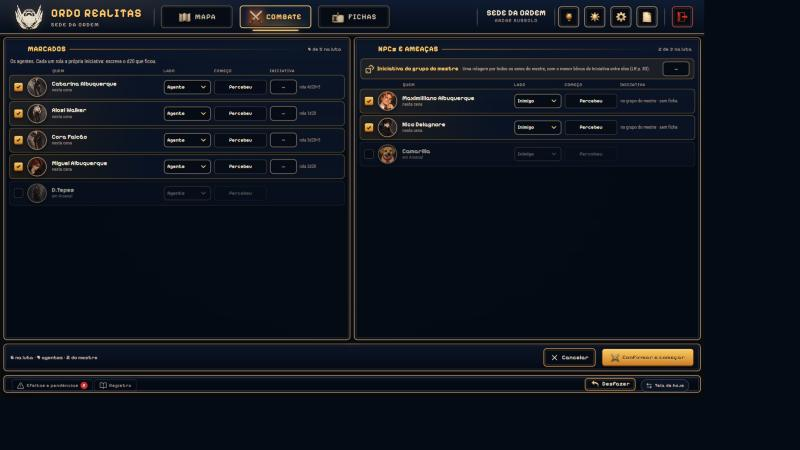
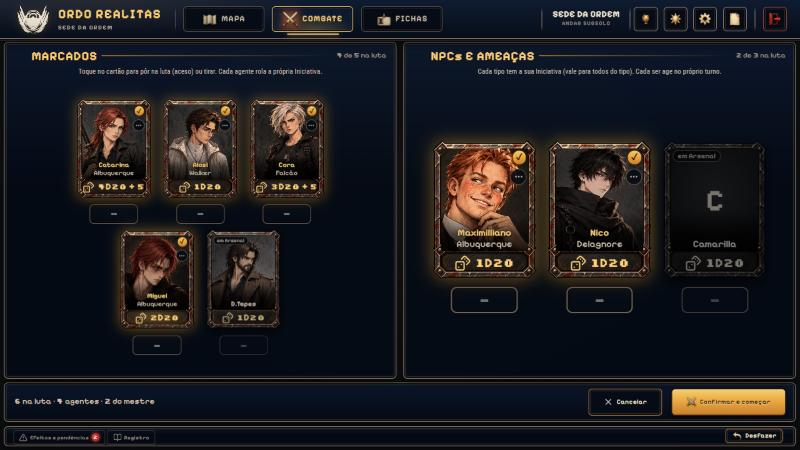
docs: tela antiga arquivada, turno individual, preparo em cartões

diff --git a/docs/EM-ABERTO.md b/docs/EM-ABERTO.md
@@ -2,6 +2,15 @@
 
 O que está pela metade, o que falta e o que o Códex ainda vai entregar. Leia junto com o [`GUIA-DO-CLAUDE.md`](GUIA-DO-CLAUDE.md), que diz como trabalhar aqui. **Atualize este arquivo ao fim de cada bloco de trabalho.**
 
+## Feito em 21/10 (noite): a tela nova é a única; turno individual; preparo em cartões
+
+- **Só a tela nova (cards) no site.** A chave "Tela de hoje / Tela nova" saiu e a escolha antiga do aparelho (`crona.combate.tela`) é apagada ao abrir. **A tela antiga está ARQUIVADA, não apagada:** o código continua em `client/src/ui/combate.ts` (ramos `modoCards ? ... : ...`), `combateRapido.css`, `combate.css` e `hud.css`, atrás da constante `TELA_ANTIGA_DISPONIVEL = false` (topo do `combate.ts`, com o comentário de como religar: trocar por `true`). Detalhes em [`TELA-COMBATE.md`](TELA-COMBATE.md), seção "Tela antiga arquivada".
+- **Turno individual (regra da mesa do Felipe):** cada ser do mestre tem o próprio turno; a Iniciativa pode ser igual, e entre iguais vale a ordem do preparo (e o `desempate`). Não existe mais "Iniciativa do grupo do mestre" nem "turno do mestre" (`shared/src/combate/turnos.ts`; `iniciativaMestre` ficou só por compatibilidade e vale para cada ser). Combate salvo no formato antigo é migrado ao abrir (`migrar`, chamada no servidor e a cada ação). Testes novos em `server/test/combate.test.ts` (seis seres de Iniciativa igual, um morre no meio, atrasar um, formato antigo).
+- **Preparo:** cartões grandes com foto (Marcados à esquerda; NPCs e ameaças agrupados por TIPO à direita, "6× Existido" com a Iniciativa do tipo e, abrindo, os seres). Os Marcados vêm da lista do jogo todo (`state.marcados`): quem não tem peça nesta campanha aparece com o botão "Trazer para a cena" (`marcadoColocar`). **Não deu para ver ao vivo com o `state.marcados` cheio:** na prévia essa lista chega vazia (o mesmo vale para `state.npcs`), então o caso "Marcado de outra campanha" só foi montado no código.
+- **A mira** agora só no estado de espera do cardzão da direita (retículo que respira e anéis que fecham); as fotos ficam limpas.
+- **Tags de ação** pequenas com ícone (punho, bota, escudo, raio; o agachar do HUD), verde = pode, cinza = gasta ou impedida (agarrado, paralisado, atordoado, inconsciente, morrendo, surpreendido, sem PE), motivo no tooltip e numa linha curta. Os cartões do menu voltaram ao visual de antes.
+- **Pedir arte depois (ícones das tags):** hoje usam os de linha do `icons.ts` (punho, bota, escudo, raio, agachar); se o Felipe quiser pintados, são 5: ação padrão, movimento, reação, PE do turno e postura.
+
 ## Feito em 21/10: a tela nova do COMBATE, em cards (ao lado da de hoje)
 
 - **O pedido do Felipe:** a batalha é nas miniaturas, então a aba COMBATE perde o mapa e vira cards. Entregue **ao lado** da de hoje: a chave "Tela de hoje / Tela nova" fica na ponta da barra de baixo da aba (guardada no aparelho do mestre, `localStorage` `crona.combate.tela`, com try/catch). **Padrão: a tela nova ligada.** A de hoje continua intacta e funcionando (conferido: o mapa, o anel, as colunas e a trava de peças voltam ao desligar a chave).

diff --git a/docs/TELA-COMBATE.md b/docs/TELA-COMBATE.md
@@ -142,3 +142,10 @@ Pedido do Felipe: "para batalhas ainda vamos usar as miniaturas". A aba COMBATE 
 - **O mapa fica livre:** com a tela nova o combate não trava peça nenhuma no MAPA e na mesa.
 - **Sem rolagem:** tudo cabe na escala (que encolhe com a janela); o excesso vira página ou seção. No tablet em pé (561 a 820 px) a tela aparece encolhida; no celular continua o aviso.
 - Código: `combate.ts` (modo `modoCards`), `combateCards.ts`, `combateCards.css`; os assistentes (`combateAtaque.ts`, `combateManobra.ts`, `combateRitual.ts`) ganharam só a opção `semMapa`, a abinha e a gaveta de situações.
+
+## Tela antiga arquivada (21/10)
+
+A tela de hoje (o tabuleiro no meio, a gaveta Alvo, Efeitos e Registro, a trava de peças) **saiu do site, mas o código ficou**, para voltar melhorada: o Felipe pediu "tira do site, mas guarda no código".
+- **Onde está:** `client/src/ui/combate.ts` (todos os ramos `modoCards ? ... : ...`, `renderAlvo`, `faixaAtor`, `montagem`, `atualizarMarcas`, `trocarTela`, `retratoDeCanvas`), e o CSS em `combateRapido.css`, `combate.css`, `hud.css` (que não foi mexido). A tela nova vive em `combateCards.ts` e `combateCards.css`, sob `.cb-modo-cards`.
+- **Como religar:** no topo do `combate.ts`, `TELA_ANTIGA_DISPONIVEL = true`. A chave "Tela de hoje / Tela nova" volta à barra de baixo e a escolha fica no `localStorage` (`crona.combate.tela`). Lembrar: a tela antiga ainda mostra o "turno do mestre" no desenho da ordem; com o turno individual (21/10) cada ser do mestre já é uma carta da ordem, então o que for revivido da faixa precisa seguir isso.
+- **Turno individual:** vale para as duas (é regra compartilhada em `shared/src/combate/turnos.ts`): cada ser do mestre tem o próprio turno, a Iniciativa pode ser igual e não há mais Iniciativa "do grupo". Combate salvo no formato antigo migra ao abrir.

diff --git a/docs/COMBATE.md b/docs/COMBATE.md
@@ -1,5 +1,8 @@
 # Combate no CRONA (mecânica)
 
+> **Decisão do Felipe (21/10, vale sobre o que está escrito abaixo sobre o "turno do mestre"):** cada ser do mestre tem o PRÓPRIO turno; a Iniciativa pode ser igual para vários (os do mesmo tipo), mas cada tipo (um Existido, um Zumbi de Sangue, um NPC) tem a sua, e não existe mais uma Iniciativa "do grupo do mestre" (LR p. 83). Entre Iniciativas iguais, vale a ordem do preparo e o desempate. Código: `entradas()` e `migrar()` em `shared/src/combate/turnos.ts`.
+
+
 Tudo o que a aba COMBATE precisa saber para uma luta andar sem travar: começo da cena de ação, surpresa, iniciativa, rodadas e turnos, cada ação do livro, ataque e dano, reações, manobras, rituais, condições, morrendo e enlouquecendo, as DTs que sobem, ameaças, aliados, itens, perigos e as regras opcionais. **Aqui é só mecânica.** O visual da tela vem depois, com a referência.
 
 - **Fontes:** livro de regras (LR, PDF 1.0) e *Sobrevivendo ao Horror* (SaH). As páginas são as impressas no rodapé. Onde o livro se contradiz ou não diz nada, a seção 22 mostra o ponto e a proposta.
